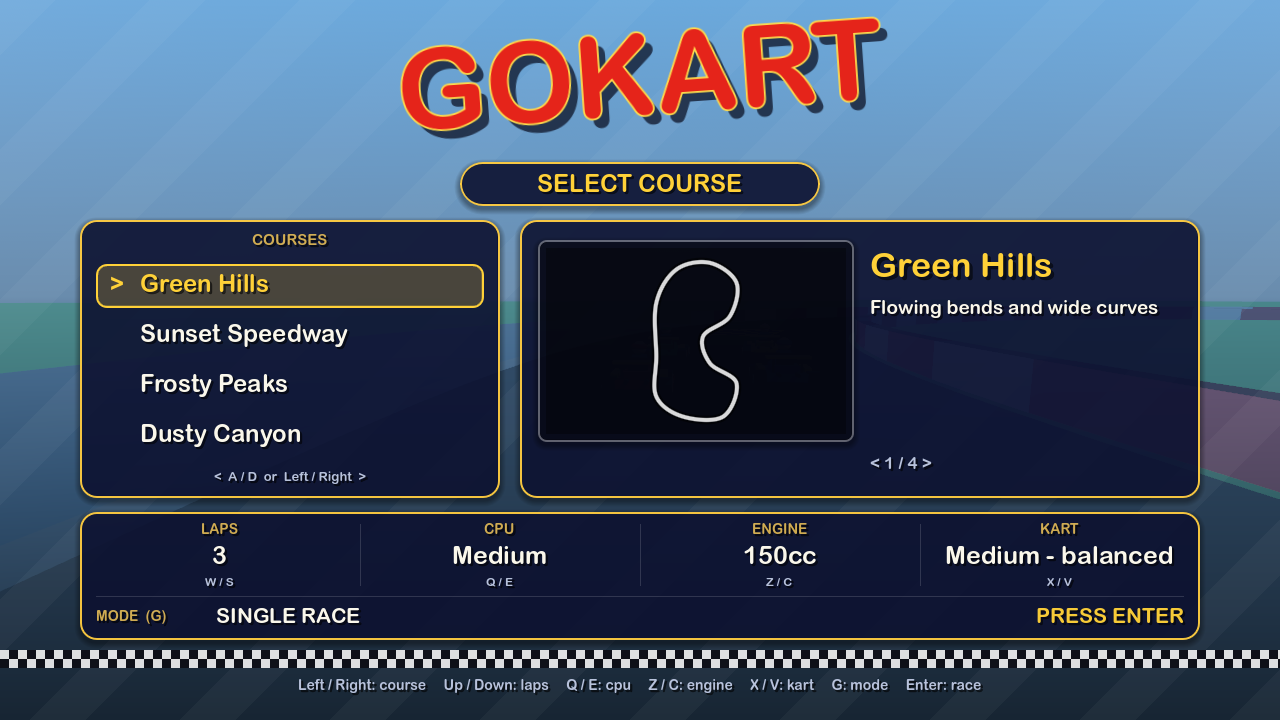
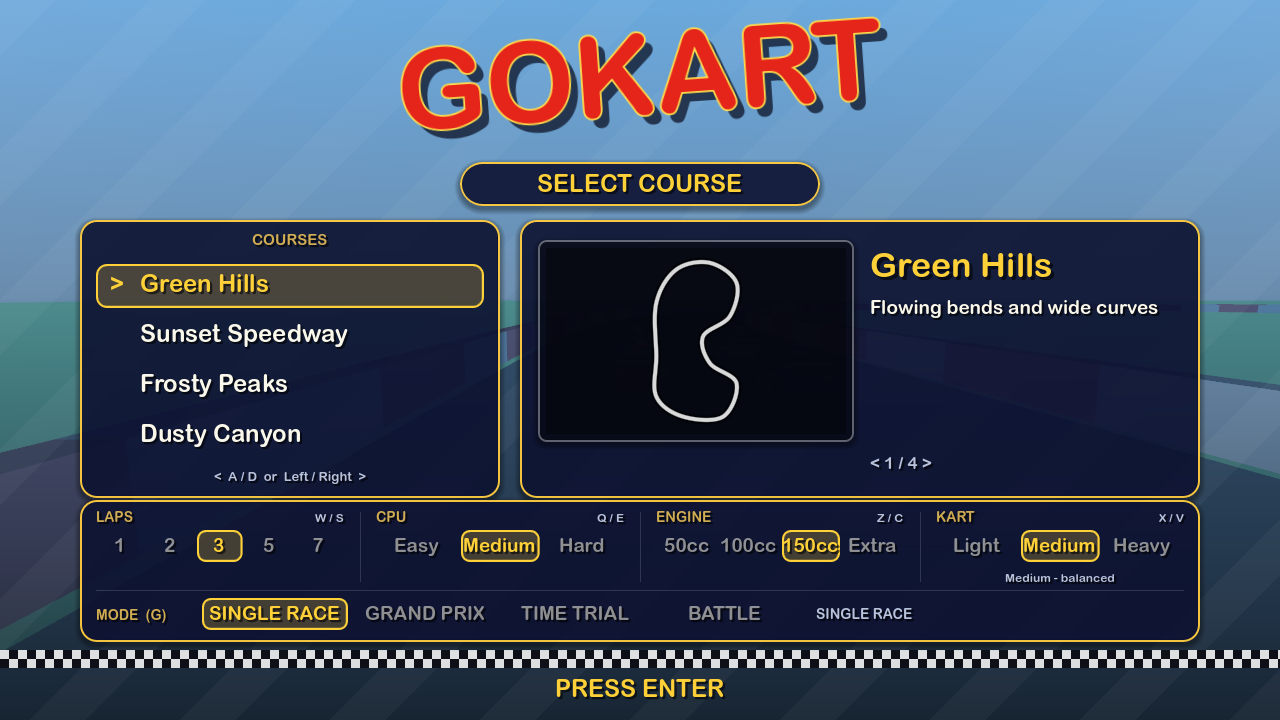
Mario Kart 64 Select Mode idiom on the select screen: every option cell lists all its choices as a row of pills — laps 1 / 2 / 3 / 5 / 7, CPU Easy / Medium / Hard, engine 50cc / 100cc / 150cc / Extra, kart Light / Medium / Heavy (blurb underneath) — and the mode line becomes four tabs SINGLE RACE / 

diff --git a/README.md b/README.md
@@ -10,7 +10,7 @@ A Mario Kart–style arcade kart racer built with **Godot 4** and GDScript. Ever
 
 ![The title screen: the logo over the attract demo, four CPU karts lapping the course](assets/screenshots/title.png)
 
-![The select screen: course list, map window and option cells over the dimmed demo](assets/screenshots/title-menu.png)
+![The select screen: course list, map window and the option rows — every choice listed, the picked one lit — over the dimmed demo](assets/screenshots/title-menu.png)
 
 ![Chasing the pack on Green Hills, 4th of 4 on lap 1](assets/screenshots/green-hills-chase.png)
 
@@ -47,7 +47,7 @@ Taken with `godot --path . -s tools/random_drive.gd` (a bot that wanders the roa
 - **AI difficulty** Easy / Medium / Hard on the title menu (`TrackLibrary.DIFFICULTIES`), with Mario Kart 64–style **rubber-banding**: AI karts that fall behind you get a top-speed bonus and karts far ahead ease off, scaled by difficulty (`AiDriver.rubber_band`)
 - **Engine classes** 50cc / 100cc / 150cc / Extra like Mario Kart 64 (Z / C on the title menu): the class scales every kart's top speed and acceleration, player and AI alike; **Extra** is MK64's mirror mode — 150cc speed on every course flipped left-to-right (the menu preview flips too, pads and hazards swap sides) (`TrackLibrary.ENGINE_CLASSES`, `KartPhysics.apply_engine_class`, `TrackData` `mirror` layout flag)
 - **Weight classes** Light / Medium / Heavy like Mario Kart 64's driver roster (X / V on the title menu): light karts accelerate fastest but get thrown aside, heavy karts have the highest top speed, the slowest pick-up and shove others out of the way; kart-to-kart bumps throw both karts apart along the contact, the lighter one much further and slowed, the heavier one keeping its speed. The 7 AI karts mix all three classes and heavy karts are visibly bigger (`scripts/kart_weight.gd`, `Kart.apply_weight_class`, `Kart._bump`, `Main.AI_SPECS`)
-- **Title screen** like Mario Kart 64's: the slanted red logo with a gold rim sits over a live **attract demo** — four CPU karts lapping the highlighted course in their own 3D viewport behind the menu, watched by a chase camera that hops from kart to kart — with a blinking PRESS ENTER; any key brings up the **select screen** laid out like MK64's (the demo keeps running, dimmed, behind it): a "SELECT COURSE" banner, the course list on the left with the highlighted row lit in gold, the course map and blurb in a framed window and a row of option cells (laps, CPU, engine, kart, mode) underneath; a rounded system font with soft drop shadows instead of heavy black outlines. A / D or arrows pick the track, W / S the lap count (1/2/3/5/7), Enter races; Esc in a race returns to the select screen (`scripts/menu.gd`, `scripts/attract.gd`)
+- **Title screen** like Mario Kart 64's: the slanted red logo with a gold rim sits over a live **attract demo** — four CPU karts lapping the highlighted course in their own 3D viewport behind the menu, watched by a chase camera that hops from kart to kart — with a blinking PRESS ENTER; any key brings up the **select screen** laid out like MK64's (the demo keeps running, dimmed, behind it): a "SELECT COURSE" banner, the course list on the left with the highlighted row lit in gold, the course map and blurb in a framed window and the option rows underneath — like MK64's Select Mode screen every choice is listed and the picked one is lit: laps 1 / 2 / 3 / 5 / 7, CPU Easy / Medium / Hard, engine 50cc / 100cc / 150cc / Extra, kart Light / Medium / Heavy (its blurb under the row) and the mode tabs SINGLE RACE / GRAND PRIX / TIME TRIAL / BATTLE as gold pills on a lit bar, the rest dim; a fixed value (time-trial laps, battle balloons) sits alone in grey; a blinking PRESS ENTER under the checkered band; a rounded system font with soft drop shadows instead of heavy black outlines. A / D or arrows pick the track, W / S the lap count (1/2/3/5/7), Enter races; Esc in a race returns to the select screen (`scripts/menu.gd`, `scripts/attract.gd`)
 - **Grand Prix cup** (G on the menu): all four tracks are raced in turn like an MK64 cup, Mario Kart 64 points (9 / 6 / 3 / 1) add up after each race, the standings follow the results and the cup ends with a gold, silver or bronze trophy. MK64 cup rules: finish **5th or worse and you rank out** — nothing is scored and the same race is run again (unlimited retries, the HUD shows "RACE 2 / 4  RETRY"); and from the second race on **everyone starts where they finished** the last race (win and you take pole, the player starts 8th only in the first race) (`scripts/grand_prix.gd`, `Main.GRID_SLOTS`)
 - **Time Trials** (G again on the menu), Mario Kart 64 style: race alone for 3 laps at 100cc with a triple mushroom and no item boxes; the five best times and the best lap of each track are saved (`user://time_trials.cfg`) and your fastest run comes back as a see-through, untouchable ghost kart that drives the exact same path on the next attempt (`scripts/time_trial.gd`, `scripts/ghost_recording.gd`, `scripts/ghost_kart.gd`)
 - **3-lap races** with ordered checkpoints and live race ranking (`scripts/lap_tracker.gd`, `scripts/race_ranking.gd`)

diff --git a/.agent/autopilot/progress.md b/.agent/autopilot/progress.md
@@ -1264,3 +1264,11 @@ The last thick black outlines in the game were on the 3D sign text in the race (
 - Tests: new `tests/test_signs3d.gd` (5 tests: helper maths, Lakitu sign rim follows the board, banner rim follows START / FINISH / CONTINUE, train plate, and a scan of scripts/ for any hard-coded outline literal wider than the logo's 7 px). Suite **12922 passed, 0 failed** (includes the other /auto's snowmen tests). lakitu_check / train_check OK.
 - New windowed `tools/sign_shot.gd`: START banner from the grid + Lakitu's REVERSE sign in front of the player; samples white text, a thin rim in the board's hue (831 px dark green of 23900 board px; 433 dark red of 5250) and 0 black / old-outline pixels -> SIGN SHOT: OK. `assets/screenshots/start-gate.png` + `lakitu-sign.png`, README updated.
 Remaining: the attract demo keeps the last course while browsing battle arenas (minor). Every 2D and 3D text in the game is now outline-free or carries a thin coloured rim.
+
+## Cycle 7 (menus) — 2026-10-03
+Mario Kart 64 **Select Mode idiom on the select screen**: every choice is listed and the picked one lit, instead of one value per cell with a key hint (menu.gd / ui_style.gd / attract.gd / new test_menu_options.gd / title-menu.png / README only; the other /auto's snowmen files untouched):
+- `scripts/menu.gd`: the option panel (80,500 1120x142) holds four cells, each a caption (left) + key hint (right) over a **row of pills** — laps 1 / 2 / 3 / 5 / 7, CPU Easy / Medium / Hard, engine 50cc / 100cc / 150cc / Extra, kart Light / Medium / Heavy — with the picked one gold on a lit gold bar (`UiStyle.lit_style`, shared with the course list) and the others dim cream (`UNLIT`); the kart blurb ("Medium - balanced") sits under its row at 12 px (fits: tested with `font.get_string_size`). The mode line becomes **four tabs** SINGLE RACE / GRAND PRIX / TIME TRIAL / BATTLE (150 px each) with the mode blurb beside them. The cell's own value label is the lit pill for laps / CPU / engine (`_option_row(slot, names, active, value_label)` moves it onto the lit slot), so every check / test contract (`laps_label.text == "5"`, `engine_label.text.contains("100cc")`, `weight_label.text == weight_text(...)`, `mode_label.text == mode_text(...)`, `laps_keys == "Time Trial"`, `laps_caption == "BALLOONS"`) still holds. A **locked** cell (time-trial laps / CPU / engine, battle balloons) shows the fixed value alone across the row in grey (`LOCKED`). The long grey key-hint line at the bottom is gone (every cell shows its keys; MK64 screens are sparse) and the blinking PRESS ENTER moved under the checkered band (340,674, 24 px) like the title screen's. Rows are rebuilt on every refresh (`option_rows`, `row_rect`, `lap_names`, `names_of`, `MODE_NAMES`).
+- `scripts/attract.gd`: the SubViewport is now built in `_init` (the rect preset stays in `_ready`) so a menu created headless during `_initialize` can hand it a course without a null viewport.
+- Tests: new `tests/test_menu_options.gd` (4 tests: choice lists / row rects, rows light the picked choice and follow W / V / G, locked cells in a time trial / battle, layout inside the panel + prompt under the band + no outlined Label anywhere in select_box). Suite **12722 passed, 0 failed**, no script errors. menu / tt / gp / weight / mirror checks OK; battle_check 36 pass + the pre-existing "banner: YOU WIN!" failure (7c167bf).
+- `tools/menu_shot.gd` -> /tmp/gokart_menu0.png pixel-sampled: gold px only in the picked slot of each row (laps slot 2 = 279, engine slot 2 = 517, mode tab 0 = 1300, every other slot 0), unlit pills visible (32-53 light px each), PRESS ENTER gold under the band (1160 px), 0 text px where the old hint line was. `assets/screenshots/title-menu.png` regenerated, README updated.
+Remaining: the attract demo keeps the last course while browsing battle arenas (minor).
